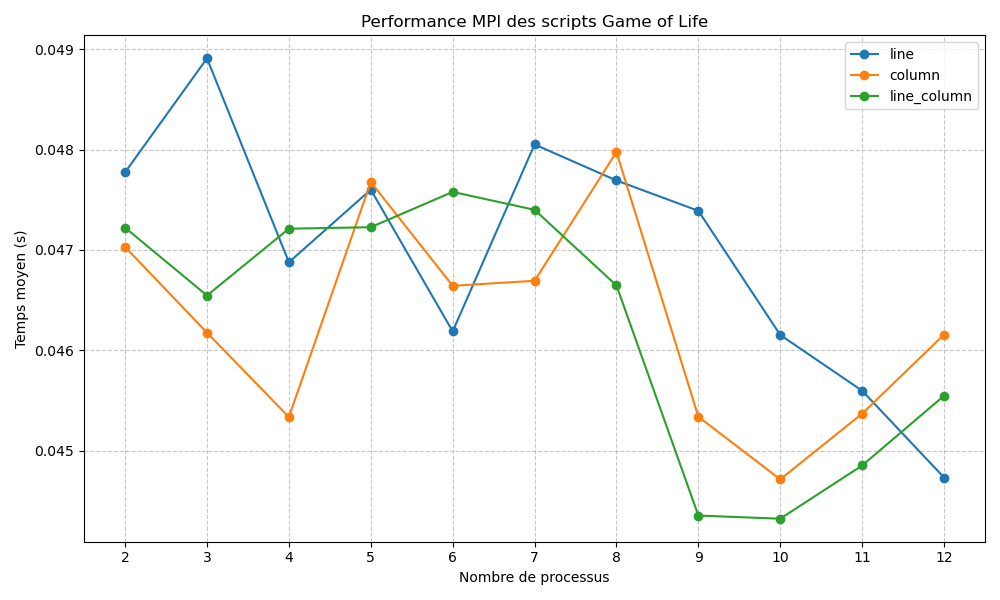
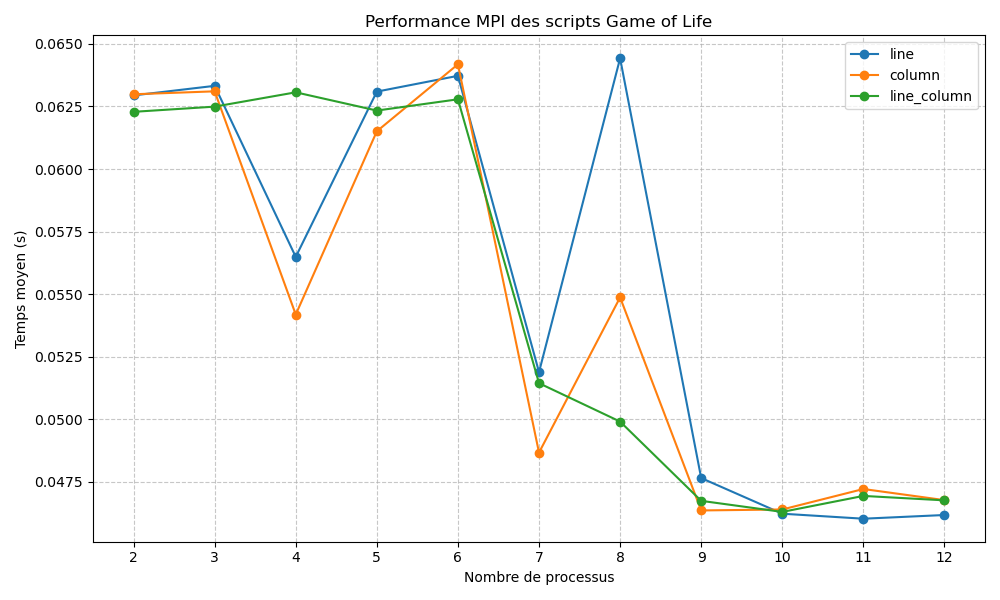
adding seq. version

diff --git a/Sequential/seq.py b/Sequential/seq.py
@@ -1,0 +1,211 @@
+"""
+Le jeu de la vie
+################
+Le jeu de la vie est un automate cellulaire inventé par Conway se basant normalement sur une grille infinie
+de cellules en deux dimensions. Ces cellules peuvent prendre deux états :
+    - un état vivant
+    - un état mort
+A l'initialisation, certaines cellules sont vivantes, d'autres mortes.
+Le principe du jeu est alors d'itérer de telle sorte qu'à chaque itération, une cellule va devoir interagir avec
+les huit cellules voisines (gauche, droite, bas, haut et les quatre en diagonales.) L'interaction se fait selon les
+règles suivantes pour calculer l'irération suivante :
+    - Une cellule vivante avec moins de deux cellules voisines vivantes meurt ( sous-population )
+    - Une cellule vivante avec deux ou trois cellules voisines vivantes reste vivante
+    - Une cellule vivante avec plus de trois cellules voisines vivantes meurt ( sur-population )
+    - Une cellule morte avec exactement trois cellules voisines vivantes devient vivante ( reproduction )
+
+Pour ce projet, on change légèrement les règles en transformant la grille infinie en un tore contenant un
+nombre fini de cellules. Les cellules les plus à gauche ont pour voisines les cellules les plus à droite
+et inversement, et de même les cellules les plus en haut ont pour voisines les cellules les plus en bas
+et inversement.
+
+On itère ensuite pour étudier la façon dont évolue la population des cellules sur la grille.
+"""
+import pygame  as pg
+import numpy   as np
+
+
+class Grille:
+    """
+    Grille torique décrivant l'automate cellulaire.
+    En entrée lors de la création de la grille :
+        - dimensions est un tuple contenant le nombre de cellules dans les deux directions (nombre lignes, nombre colonnes)
+        - init_pattern est une liste de cellules initialement vivantes sur cette grille (les autres sont considérées comme mortes)
+        - color_life est la couleur dans laquelle on affiche une cellule vivante
+        - color_dead est la couleur dans laquelle on affiche une cellule morte
+    Si aucun pattern n'est donné, on tire au hasard quels sont les cellules vivantes et les cellules mortes
+    Exemple :
+       grid = Grille( (10,10), init_pattern=[(2,2),(0,2),(4,2),(2,0),(2,4)], color_life=pg.Color("red"), color_dead=pg.Color("black"))
+    """
+    def __init__(self, dim, init_pattern=None, color_life=pg.Color("black"), color_dead=pg.Color("white")):
+        #import random
+        self.dimensions = dim
+        if init_pattern is not None:
+            self.cells = np.zeros(self.dimensions, dtype=np.uint8)
+            indices_i = [v[0] for v in init_pattern]
+            indices_j = [v[1] for v in init_pattern]
+            self.cells[indices_i,indices_j] = 1
+        else:
+            self.cells = np.random.randint(2, size=dim, dtype=np.uint8)
+        self.col_life = color_life
+        self.col_dead = color_dead
+
+    def compute_next_iteration(self):
+        """
+        Calcule la prochaine génération de cellules en suivant les règles du jeu de la vie
+        """
+        # Remarque 1: on pourrait optimiser en faisant du vectoriel, mais pour plus de clarté, on utilise les boucles
+        # Remarque 2: on voit la grille plus comme une matrice qu'une grille géométrique. L'indice (0,0) est donc en haut
+        #             à gauche de la grille !
+        ny = self.dimensions[0]
+        nx = self.dimensions[1]
+        next_cells = np.empty(self.dimensions, dtype=np.uint8)
+        diff_cells = []
+        for i in range(ny):
+            i_above = (i+ny-1)%ny
+            i_below = (i+1)%ny
+            for j in range(nx):
+                j_left = (j-1+nx)%nx
+                j_right= (j+1)%nx
+                voisins_i = [i_above,i_above,i_above, i     , i      , i_below, i_below, i_below]
+                voisins_j = [j_left ,j      ,j_right, j_left, j_right, j_left , j      , j_right]
+                voisines = np.array(self.cells[voisins_i,voisins_j])
+                nb_voisines_vivantes = np.sum(voisines)
+                if self.cells[i,j] == 1: # Si la cellule est vivante
+                    if (nb_voisines_vivantes < 2) or (nb_voisines_vivantes > 3):
+                        next_cells[i,j] = 0 # Cas de sous ou sur population, la cellule meurt
+                        diff_cells.append(i*nx+j)
+                    else:
+                        next_cells[i,j] = 1 # Sinon elle reste vivante
+                elif nb_voisines_vivantes == 3: # Cas où cellule morte mais entourée exactement de trois vivantes
+                    next_cells[i,j] = 1         # Naissance de la cellule
+                    diff_cells.append(i*nx+j)
+                else:
+                    next_cells[i,j] = 0         # Morte, elle reste morte.
+        self.cells = next_cells
+        return diff_cells
+    
+    def modificateur(self, diff):
+	    
+	    nx = self.dimensions[1]
+	    for c in diff:
+             nr = c//nx 
+             nc = c%nx 
+             self.cells[nr,nc] = (1 -self.cells[nr,nc] ) 
+	    return None
+    
+class App:
+    """
+    Cette classe décrit la fenêtre affichant la grille à l'écran
+        - geometry est un tuple de deux entiers donnant le nombre de pixels verticaux et horizontaux (dans cet ordre)
+        - grid est la grille décrivant l'automate cellulaire (voir plus haut)
+    """
+    def __init__(self, geometry, grid):
+        self.grid = grid
+        # Calcul de la taille d'une cellule par rapport à la taille de la fenêtre et de la grille à afficher :
+        self.size_x = geometry[1]//grid.dimensions[1]
+        self.size_y = geometry[0]//grid.dimensions[0]
+        if self.size_x > 4 and self.size_y > 4 :
+            self.draw_color=pg.Color('lightgrey')
+        else:
+            self.draw_color=None
+        # Ajustement de la taille de la fenêtre pour bien fitter la dimension de la grille
+        self.width = grid.dimensions[1] * self.size_x
+        self.height= grid.dimensions[0] * self.size_y
+        # Création de la fenêtre à l'aide de tkinter
+        self.screen = pg.display.set_mode((self.width,self.height))
+        #
+        self.canvas_cells = []
+
+    def compute_rectangle(self, i: int, j: int):
+        """
+        Calcul la géométrie du rectangle correspondant à la cellule (i,j)
+        """
+        return (self.size_x*j, self.height - self.size_y*(i + 1), self.size_x, self.size_y)
+
+    def compute_color(self, i: int, j: int):
+        if self.grid.cells[i,j] == 0:
+            return self.grid.col_dead
+        else:
+            return self.grid.col_life
+
+    def draw(self):
+        [self.screen.fill(self.compute_color(i,j),self.compute_rectangle(i,j)) for i in range(self.grid.dimensions[0]) for j in range(self.grid.dimensions[1])]
+        if (self.draw_color is not None):
+            [pg.draw.line(self.screen, self.draw_color, (0,i*self.size_y), (self.width,i*self.size_y)) for i in range(self.grid.dimensions[0])]
+            [pg.draw.line(self.screen, self.draw_color, (j*self.size_x,0), (j*self.size_x,self.height)) for j in range(self.grid.dimensions[1])]
+        pg.display.update()
+
+
+from mpi4py import MPI
+
+
+globCom = MPI.COMM_WORLD.Dup()
+rank = globCom.Get_rank()
+nbp  = globCom.Get_size()
+
+
+if __name__ == '__main__':
+    import time
+    import sys
+
+    pg.init()
+    dico_patterns = { # Dimension et pattern dans un tuple
+        'blinker' : ((5,5),[(2,1),(2,2),(2,3)]),
+        'toad'    : ((6,6),[(2,2),(2,3),(2,4),(3,3),(3,4),(3,5)]),
+        "acorn"   : ((100,100), [(51,52),(52,54),(53,51),(53,52),(53,55),(53,56),(53,57)]),
+        "beacon"  : ((6,6), [(1,3),(1,4),(2,3),(2,4),(3,1),(3,2),(4,1),(4,2)]),
+        "boat" : ((5,5),[(1,1),(1,2),(2,1),(2,3),(3,2)]),
+        "glider": ((100,90),[(1,1),(2,2),(2,3),(3,1),(3,2)]),
+        "glider_gun": ((400,400),[(51,76),(52,74),(52,76),(53,64),(53,65),(53,72),(53,73),(53,86),(53,87),(54,63),(54,67),(54,72),(54,73),(54,86),(54,87),(55,52),(55,53),(55,62),(55,68),(55,72),(55,73),(56,52),(56,53),(56,62),(56,66),(56,68),(56,69),(56,74),(56,76),(57,62),(57,68),(57,76),(58,63),(58,67),(59,64),(59,65)]),
+        "space_ship": ((25,25),[(11,13),(11,14),(12,11),(12,12),(12,14),(12,15),(13,11),(13,12),(13,13),(13,14),(14,12),(14,13)]),
+        "die_hard" : ((100,100), [(51,57),(52,51),(52,52),(53,52),(53,56),(53,57),(53,58)]),
+        "pulsar": ((17,17),[(2,4),(2,5),(2,6),(7,4),(7,5),(7,6),(9,4),(9,5),(9,6),(14,4),(14,5),(14,6),(2,10),(2,11),(2,12),(7,10),(7,11),(7,12),(9,10),(9,11),(9,12),(14,10),(14,11),(14,12),(4,2),(5,2),(6,2),(4,7),(5,7),(6,7),(4,9),(5,9),(6,9),(4,14),(5,14),(6,14),(10,2),(11,2),(12,2),(10,7),(11,7),(12,7),(10,9),(11,9),(12,9),(10,14),(11,14),(12,14)]),
+        "floraison" : ((40,40), [(19,18),(19,19),(19,20),(20,17),(20,19),(20,21),(21,18),(21,19),(21,20)]),
+        "block_switch_engine" : ((400,400), [(201,202),(201,203),(202,202),(202,203),(211,203),(212,204),(212,202),(214,204),(214,201),(215,201),(215,202),(216,201)]),
+        "u" : ((200,200), [(101,101),(102,102),(103,102),(103,101),(104,103),(105,103),(105,102),(105,101),(105,105),(103,105),(102,105),(101,105),(101,104)]),
+        "flat" : ((200,400), [(80,200),(81,200),(82,200),(83,200),(84,200),(85,200),(86,200),(87,200), (89,200),(90,200),(91,200),(92,200),(93,200),(97,200),(98,200),(99,200),(106,200),(107,200),(108,200),(109,200),(110,200),(111,200),(112,200),(114,200),(115,200),(116,200),(117,200),(118,200)])
+    }
+    choice = 'glider'
+    if len(sys.argv) > 1 :
+        choice = sys.argv[1]
+    resx = 800
+    resy = 800
+    if len(sys.argv) > 3 :
+        resx = int(sys.argv[2])
+        resy = int(sys.argv[3])
+    print(f"Pattern initial choisi : {choice}")
+    print(f"resolution ecran : {resx,resy}")
+    try:
+        init_pattern = dico_patterns[choice]
+    except KeyError:
+        print("No such pattern. Available ones are:", dico_patterns.keys())
+        exit(1)
+    grid = Grille(*init_pattern)
+    if rank == 0:
+        appli = App((resx, resy), grid)
+
+    mustContinue = True
+    while mustContinue:
+        #time.sleep(0.5) # A régler ou commenter pour vitesse maxi
+        diff = []  ####################
+        if rank == 1 :             #######################
+            t1 = time.time()                   #########################
+            diff = grid.compute_next_iteration()             ############################
+            globCom.send(diff, dest = 0, tag = 101)                  ##########################""
+            t2 = time.time()                #######
+            print(f"Temps calcul prochaine generation : {t2-t1:2.2e} secondes\n", end='')
+        elif rank == 0 : 
+            t2 = time.time()
+            diff = globCom.recv(source = 1, tag = 101)
+            grid.modificateur(diff)
+            appli.draw()
+            t3 = time.time()
+            for event in pg.event.get():
+                if event.type == pg.QUIT:
+                    mustContinue = False
+                    globCom.Abort()
+            print(f"Temps affichage : {t3-t2:2.2e} secondes\r", end='')
+    
+    pg.quit()
+

diff --git a/Line/LINE_gol.py b/Line/LINE_gol.py
@@ -1,4 +1,10 @@
+# Version parallélisé suivant les lignes
 """
+    Membre du groupes:
+    ------------------
+        -Dohemeto Bonaventure 
+        -BURNS Thomas
+
 Le jeu de la vie
 ################
 Le jeu de la vie est un automate cellulaire inventé par Conway se basant normalement sur une grille infinie
@@ -22,7 +28,14 @@ et inversement.
 On itère ensuite pour étudier la façon dont évolue la population des cellules sur la grille.
 """
 import pygame as pg
+
 import numpy as np
+
+import random
+
+import time
+
+import sys
 
 
 class Grille:
@@ -39,9 +52,10 @@ class Grille:
     """
     def __init__(self, rank, worker_nbp, dim, init_pattern=None, color_life=pg.Color("black"), color_dead=pg.Color("white")):
         self.rank = rank
-        self.worker_nbp = worker_nbp   # maintenant c'est cohérent
+        self.worker_nbp = worker_nbp   
         # Distribution équitable des lignes
         ny_global, nx = dim
+        
         base = ny_global // worker_nbp
         rest = ny_global % worker_nbp
         self.ny_loc = base + (1 if rank < rest else 0)
@@ -104,12 +118,14 @@ class Grille:
 
     def exchange_ghost_lines(self, comm):
         size = comm.Get_size()
-        if size == 1:
-            # Un seul worker : recopie circulaire interne
-            self.cells[0, :] = self.cells[self.dimensions[0]-2, :]
-            self.cells[self.dimensions[0]-1, :] = self.cells[1, :]
-            return
-
+        
+        """
+            if size == 1:
+                # Un seul worker : recopie circulaire interne
+                self.cells[0, :] = self.cells[self.dimensions[0]-2, :]
+                self.cells[self.dimensions[0]-1, :] = self.cells[1, :]
+                return  
+        """
         rank = comm.Get_rank()
         top = (rank - 1) % size
         bottom = (rank + 1) % size
@@ -177,8 +193,7 @@ else:
     worker_comm = None
 
 if __name__ == '__main__':
-    import time
-    import sys
+    
 
     pg.init()
     dico_patterns = { # Dimension et pattern dans un tuple

diff --git a/testperfomance.py b/testperfomance.py
@@ -6,6 +6,7 @@ import matplotlib.pyplot as plt
 
 # Scripts à tester
 scripts = {
+    "seq": "./Sequential/seq.py",
     "line": "./Line/LINE_gol.py",
     "column": "./Column/COLUMN_gol.py",
     "line_column": "./LineAndColumn/LINE_COLUMN.py"

diff --git a/Column/COLUMN_gol.py b/Column/COLUMN_gol.py
@@ -6,6 +6,7 @@ Le jeu de la vie
 import pygame as pg
 import numpy as np
 from mpi4py import MPI
+import time
 
 class Grille:
     def __init__(self, rank, worker_nbp, dim, init_pattern=None,

diff --git a/README.md b/README.md
@@ -40,7 +40,7 @@ Pour chaque script et chaque nombre de processus, le script :
 
 Les résultats sont affichés dans le terminal, sauvegardés dans `gol_performance.txt` et tracés dans `gol_performance.png`.
 
-### Exemple de tableau de performance
+### Tableau de performance
 
 | N proc | line     | column   | line_column |
 | ------ | -------- | -------- | ----------- |
